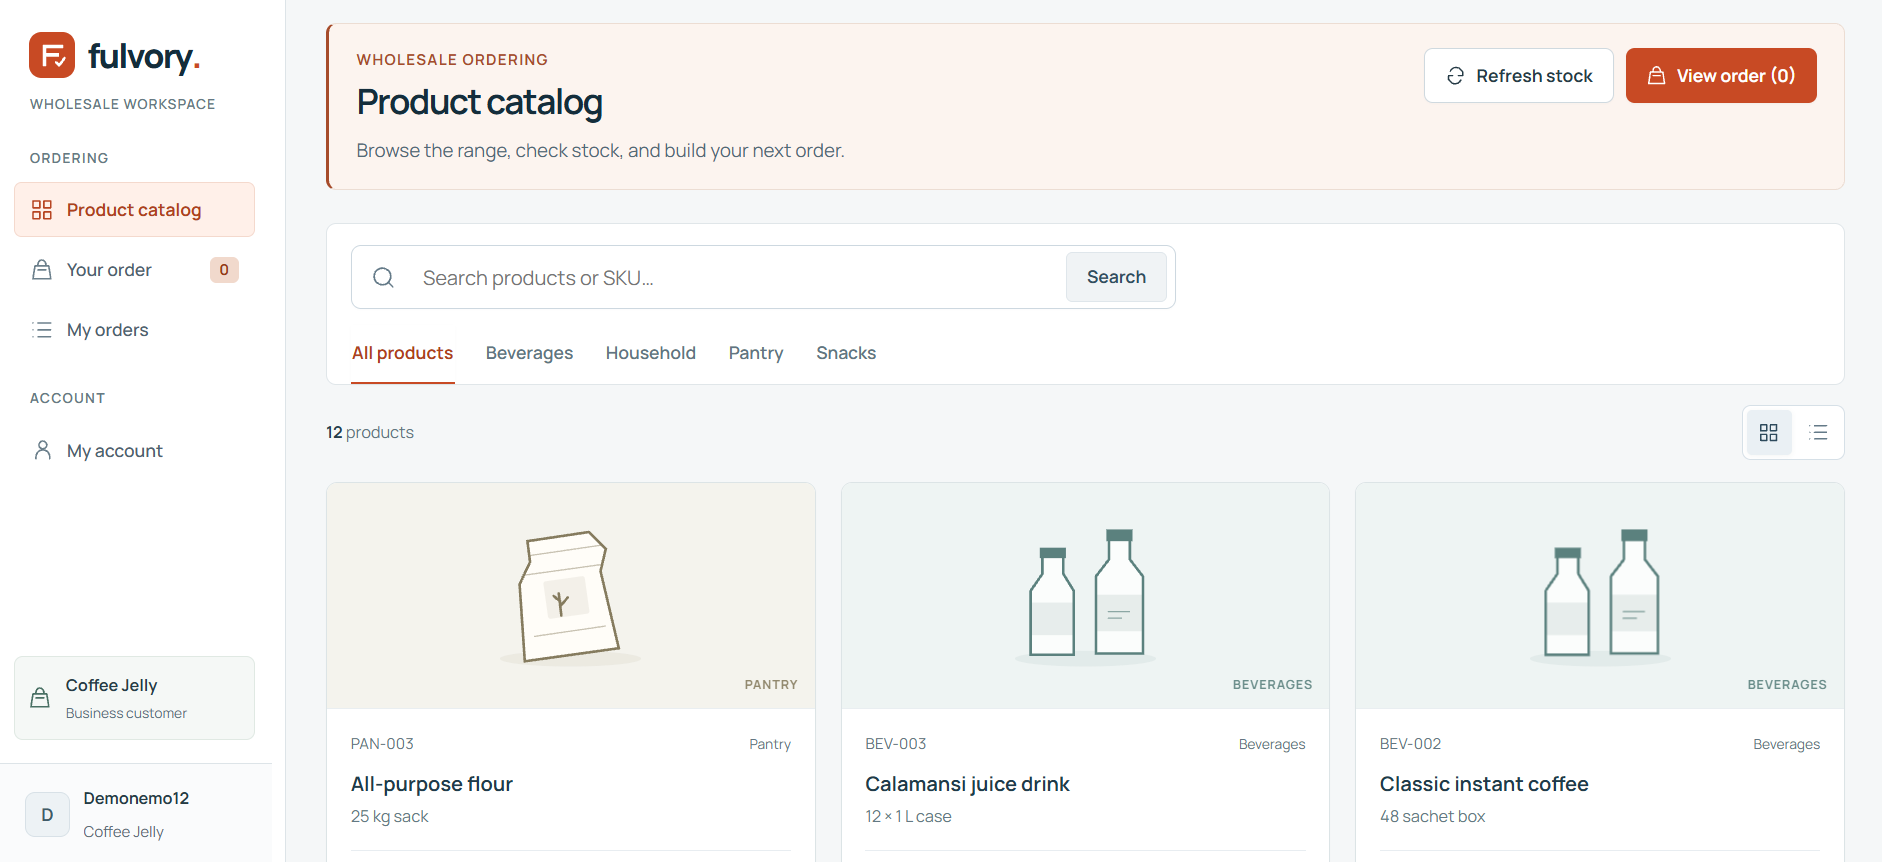
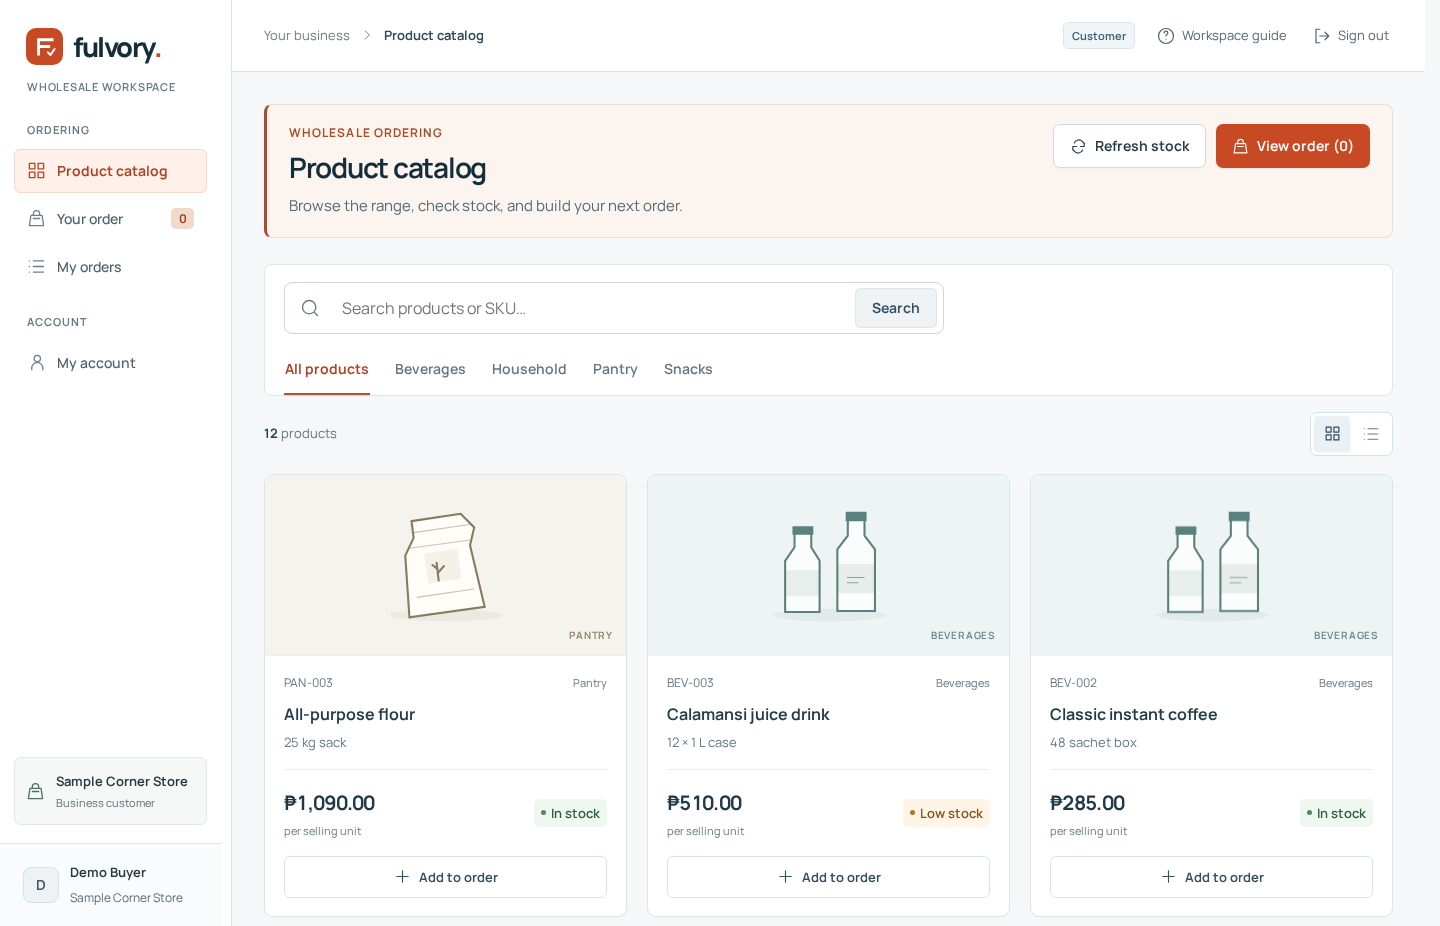
docs: refresh Fulvory showcase with four workflow screenshots

diff --git a/README.md b/README.md
@@ -1,334 +1,82 @@
 # Fulvory
 
-## B2B Order Processing & Fulfillment Platform
+**B2B ordering, inventory, and fulfillment platform**
 
-Fulvory is a full-stack application that brings wholesale ordering, stock control, supplier operations, and delivery records into one shared workspace.
+Fulvory gives a wholesale supplier one workspace for its catalog, stock, orders, and delivery records. Customer businesses place orders and track their progress. Supplier staff prepare orders and record dispatch, while administrators manage products and team access.
 
-It is designed for **one supplier, one warehouse, and multiple customer businesses**. Customers place and follow their orders, staff handle daily fulfillment, and administrators manage products and team access.
+**Java 21 · Spring Boot · Spring Security · PostgreSQL · React · Docker · GitHub Actions**
 
-**Java 21 · Spring Boot · Spring Security · React · PostgreSQL · Docker · GitHub Actions**
+[Watch the Fulvory walkthrough on YouTube](YOUTUBE_VIDEO_URL)
 
-## Demo Video
+## See Fulvory in action
 
-### [Watch the Fulvory walkthrough on YouTube](YOUTUBE_VIDEO_URL)
+The screenshots below show the application running locally with sample data.
 
-The walkthrough follows a customer order from product selection through supplier preparation, dispatch recording, and confirmation of receipt. It also introduces inventory management and supplier team permissions.
+### 1. Customer catalog
 
-## The Problem Fulvory Addresses
+Business customers browse products, check prices and availability, and select goods for their next order.
 
-A wholesaler handling orders through separate chat messages and spreadsheets can struggle to keep product prices, available stock, order progress, and delivery arrangements consistent.
+![Customer catalog showing products, prices, selling units, and stock availability](screenshots/catalog.png)
 
-Fulvory brings those records together and adds business rules for situations such as:
+### 2. Supplier order queue
 
-- Two customers trying to order the same remaining stock.
-- A customer retrying checkout after an interrupted request.
-- Catalog prices changing while an order is being reviewed.
-- Staff submitting a stock count based on an outdated screen.
-- Administrators changing a team member's access.
-- Customers needing an explanation of their order's progress.
+Supplier staff can search by order number or business name, filter by status, and see how many orders need preparation or are in transit.
 
-The application connects the customer-facing catalog to supplier operations while retaining a history of significant actions.
+![Supplier workspace showing confirmed, packing, and delivered orders](screenshots/supplier-orders.png)
 
-## User Roles and Shared Data
+### 3. Order details and delivery
 
-| Role | How the account is created | Main responsibilities |
-|---|---|---|
-| Customer | Public registration creates a customer business and its first account. | Browse products, place orders, view their business's orders, cancel eligible orders, and confirm receipt. |
-| Staff | An administrator adds an individual supplier team member. | Prepare customer orders, record delivery arrangements, maintain stock counts, and review stock history. |
-| Administrator | Initial administrator provisioning, then controlled team administration. | Staff capabilities plus product administration, team access management, and administrative monitoring. |
+A single order shows the saved items and prices, fulfillment timeline, recorded dispatch details, and status history through receipt confirmation.
 
-Administrators and staff work with **the same supplier's products, inventory, and orders**. Adding another administrator gives another person access to that shared operation.
+![Delivered order showing its items, total, fulfillment progress, and recorded delivery details](screenshots/order-details.png)
 
-Customer order access is scoped to the authenticated customer business.
+### 4. Inventory workspace
 
-## Main Application Modules
+Staff see what is physically on hand, what is reserved for open orders, and what is still available to sell. Stock history records changes and the people who made them.
 
-| Module | Functionality |
+![Inventory table showing on-hand, reserved, and available quantities](screenshots/inventory.png)
+
+## How an order moves through Fulvory
+
+1. The customer reviews a quote calculated by the backend and confirms the order. Fulvory saves the item and price details and reserves stock.
+2. Staff begin packing and record the rider or courier arrangement. They mark the order **Shipped** after handover. Fulvory deducts the quantities from both on-hand and reserved stock.
+3. The customer confirms receipt, or authorized staff records confirmation. The order moves to **Delivered**, and its history remains visible. Cancellation before shipping releases the reservation.
+
+Fulvory is designed for **one supplier and one warehouse serving multiple customer businesses**. Staff and administrators share the supplier's workspace. Customers can access orders for their own business. Manual delivery records arrangements made outside Fulvory, and a separate courier simulator demonstrates booking failures, timeouts, and retries.
+
+## Backend engineering
+
+| Challenge | How Fulvory handles it |
 |---|---|
-| Product catalog | Search and filter products, inspect selling units and prices, and see stock availability. |
-| Product administration | Create, edit, and deactivate products; manage unique SKUs and optional product photos. |
-| Cart and checkout | Build an order, request a current server-calculated quote, and submit delivery information. |
-| Customer orders | Review order items, totals, progress, and delivery details; perform permitted cancellation and receipt actions. |
-| Supplier orders | Review the shared order queue and move eligible orders through packing, shipment, and delivery. |
-| Inventory | View on-hand, reserved, and available quantities; record physical stock counts with reasons. |
-| Stock history | Review stock changes, quantities, resulting balances, actors, reasons, and related orders. |
-| Deliveries | Record an independently arranged courier or rider, business contact, dispatch reference, and customer-visible notes. |
-| Team access | Add individual staff or administrator accounts, change roles, and enable or disable access with a recorded reason. |
-| Account security | Email verification, password recovery, authenticated password changes, and supplier account setup. |
-| Operations and history | Review mail queue state, delivery mode, account security events, and administrative changes. |
+| Two buyers want the last units | PostgreSQL row locks and a transaction coordinate stock checks, order creation, and reservation. |
+| Checkout is retried after an interruption | A business-scoped idempotency key allows the same submission to return the original order without another reservation. |
+| A product price changes during checkout | The server checks the quote again before confirmation. Existing orders keep their original item and price snapshots. |
+| Staff work from an outdated screen | Version checks reject stale edits to stock counts and other business records. Eligible state transitions control when stock is released or deducted. |
+| Access changes while someone is signed in | Spring Security enforces roles and customer ownership. Password or access changes invalidate earlier sessions on subsequent authenticated requests. |
+| An account email cannot be sent immediately | A database outbox retains queued messages for delivery by a worker with bounded retries. Verification and recovery links are single-use and expire. |
 
-## Customer-to-Supplier Workflow
+The backend is a **modular monolith**. HTTP controllers delegate to services that enforce business rules and own transactions. Data access uses Spring Data JPA and targeted JDBC queries, with Flyway managing the PostgreSQL schema. React and Vite power the frontend. Docker Compose supports local services, and Mailpit captures email during development.
 
-1. **Browse and review.** A customer selects products and quantities, then reviews a quote calculated from current database prices.
-2. **Confirm the order.** The backend rechecks prices and stock, saves the order's item and price snapshots, and reserves the required quantities in one transaction.
-3. **Prepare the goods.** The supplier team opens the order and starts packing.
-4. **Record the delivery arrangement.** Staff independently arrange a courier or rider and save the relevant delivery details.
-5. **Record shipment.** After the goods are handed over, staff mark the order Shipped. Its quantities are deducted from both on-hand and reserved stock.
-6. **Confirm receipt.** The owning customer confirms arrival, or authorized staff record delivery confirmation with an explanation.
-7. **Review the history.** Order progress and related stock changes remain available for review.
+## Automated checks
 
-### Order Lifecycle
+The project recorded **140 passing backend unit and integration tests** and **7 passing courier simulator tests** during the business pilot. The v1.4.1 frontend update passed **38 frontend tests** and a production build. The GitHub Actions workflow runs the backend, frontend, and simulator checks and includes Docker builds and HTTP smoke tests.
 
-~~~mermaid
-stateDiagram-v2
-    CONFIRMED --> PACKING: Start packing
-    PACKING --> SHIPPED: Record handover
-    SHIPPED --> DELIVERED: Confirm receipt
-    CONFIRMED --> CANCELLED: Eligible cancellation
-    PACKING --> CANCELLED: Eligible cancellation
-~~~
+## Showcase repository structure
 
-Cancellation releases reserved stock. Shipped and delivered orders cannot be cancelled through this workflow.
-
-Recording a courier arrangement alone does not deduct stock or contact a delivery provider.
-
-## Backend Engineering Highlights
-
-### Atomic Stock Reservations
-
-Order confirmation locks the selected product and inventory rows in PostgreSQL, checks availability, and reserves all requested items within the order transaction.
-
-A failure rolls back the order and its stock changes together.
-
-Available stock is calculated as **on-hand minus reserved**. Database constraints protect the rule that reserved quantities cannot exceed on-hand stock.
-
-### Safe Order Retries
-
-Each order submission has a customer-business-scoped idempotency key.
-
-Repeating an equivalent submission returns the original order. Using an existing key for a different request produces a conflict.
-
-The browser retains the pending submission and its key through uncertain outcomes, allowing the customer to retry the same intent without creating another order or reserving stock again.
-
-### Server-Controlled Pricing
-
-The backend calculates quotes and final order amounts using Java BigDecimal and PostgreSQL NUMERIC values.
-
-It rechecks the quote during confirmation and asks the customer to review a changed price.
-
-Order lines retain product, SKU, selling-unit, and price snapshots. Later catalog edits do not rewrite the details of an existing order.
-
-### Version Checks for Concurrent Edits
-
-Stock counts, product changes, delivery records, and team access changes check the version or revision the user reviewed.
-
-An outdated form is rejected instead of silently replacing a newer change.
-
-A physical stock count must preserve existing reservations. Staff refresh and recount after a conflicting stock change.
-
-### Controlled Fulfillment Transitions
-
-The backend validates each status transition and applies related order, stock, and history changes in the same transaction.
-
-Repeated requests for a previously recorded state do not repeat its stock effects or append duplicate status events.
-
-Order and inventory locks use a consistent ordering to coordinate concurrent actions.
-
-### Server-Side Authorization
-
-Spring Security enforces role permissions. Customer order queries also check ownership using the authenticated business identity.
-
-Supplier administration endpoints have separate access rules from customer ordering endpoints.
-
-Public registration creates customer accounts. Privileged supplier access is managed through administrator workflows.
-
-### Actor-Attributed History
-
-Order status changes, stock movements, administration actions, delivery edits, and account security events record the relevant actor and time.
-
-Protected history tables reject ordinary update and delete operations through database triggers.
-
-This supports traceability when reviewing how an order, balance, or access setting changed.
-
-## Account Security and Email Recovery
-
-- Passwords are stored using BCrypt hashes.
-- Cookie-based sessions use CSRF protection for state-changing requests.
-- Verification and password setup/reset links are single-use, expire, and are tied to the account's access revision.
-- Token records store digests; pending email token payloads are encrypted with AES-GCM.
-- Password and access changes invalidate earlier sessions on subsequent authenticated requests.
-- Team access changes protect the last enabled administrator.
-- Persistent rate limits cover authentication and sensitive account actions.
-
-Account actions and their queued email records are committed together. A background worker sends queued messages using SMTP with bounded timeouts and retries.
-
-Mailpit provides local email capture during development. An external SMTP sender is configured separately for a hosted installation.
-
-## Frontend Experience
-
-The React interface provides customer and supplier workspaces with responsive navigation, searchable lists, status indicators, and explicit loading and error feedback.
-
-- Loaded matching queries can remain visible during background refresh.
-- Read caching is scoped to the signed-in workspace, with separate entries for filters and pages.
-- Successful or uncertain writes invalidate affected reads without automatically replaying the write.
-- Checkout still requests a fresh quote.
-- Product photos use category artwork as a fallback when no photo is available.
-- Optional JPEG/PNG uploads are validated and processed by the backend.
-
-## Architecture and Technology
-
-The backend uses a **feature-based modular monolith**.
-
-Controllers handle HTTP requests, services own business rules and transactions, and repositories access PostgreSQL. API responses use DTOs.
-
-| Area | Implementation |
+| Path | Content |
 |---|---|
-| Backend language | Java 21 |
-| Application framework | Spring Boot |
-| Authentication and authorization | Spring Security, cookie sessions, role and ownership checks |
-| Persistence | Spring Data JPA, targeted JDBC queries, PostgreSQL |
-| Schema management | Flyway migrations |
-| Frontend | React and Vite |
-| Account email | SMTP with a durable database outbox |
-| Local email testing | Mailpit |
-| Build tooling | Maven and npm |
-| Containers | Docker and Docker Compose |
-| Automated workflow | GitHub Actions |
+| `README.md` | Project overview, demo link, and technical notes |
+| `screenshots/catalog.png` | Customer catalog |
+| `screenshots/supplier-orders.png` | Supplier order queue |
+| `screenshots/order-details.png` | Delivered order and dispatch record |
+| `screenshots/inventory.png` | Inventory workspace |
 
-The prepared same-origin hosting image packages the React production build with Spring Boot.
+The application source is maintained in a separate private repository. A code review or technical walkthrough is available on request.
 
-PostgreSQL persists application records and product photos. The current session design uses one backend instance.
+## Project purpose
 
-## Testing and Continuous Integration
+Fulvory is a personal portfolio project for practicing Java backend development through a complete business workflow. The focus is on designing REST APIs, keeping data consistent across requests, enforcing access rules, and testing behavior when requests fail or are retried.
 
-The project's recorded verification evidence includes:
+## Developer
 
-| Suite | Recorded passing tests | Examples of coverage |
-|---|---:|---|
-| Backend unit and PostgreSQL integration tests | 140 | Ordering, stock behavior, account lifecycle, permissions, product images, operations, and delivery records. |
-| Frontend tests | 38 | Submission recovery, price formatting, API behavior, photo selection, and query-cache behavior. |
-| Courier simulator tests | 7 | Stable booking references, temporary failures, timeouts after acceptance, and simulator restart recovery. |
-
-These counts come from separate recorded verification stages: the backend and simulator evidence is from the business-pilot release, and the frontend evidence is from UI version 1.4.1.
-
-The GitHub Actions workflow runs:
-
-- Backend unit and integration tests.
-- Frontend tests and a production build.
-- Courier simulator tests.
-- Docker image builds.
-- Disposable application services and HTTP smoke checks.
-
-Pushes and pull requests trigger the workflow, and a manual run is available.
-
-The test suites provide repeatable checks of covered behavior. Manual workflow testing and verification in the actual hosting environment complement those checks.
-
-## Screenshots
-
-### Product Catalog
-
-Customers browse the wholesale catalog with product prices, selling units, and stock indicators.
-
-![Fulvory product catalog](screenshots/catalog.png)
-
-### Supplier Orders
-
-Administrators and staff share the order queue and review fulfillment progress.
-
-![Fulvory supplier orders workspace](screenshots/supplier-orders.png)
-
-### Inventory
-
-The inventory workspace shows stock balances and supports reasoned physical count adjustments.
-
-![Fulvory inventory management](screenshots/inventory.png)
-
-## Delivery Modes and Project Scope
-
-### Manual Delivery
-
-Manual delivery supports a supplier's own rider or a courier arranged independently.
-
-Staff save the arrangement and report shipment. The customer or authorized staff then confirm delivery.
-
-### Courier Simulation
-
-Simulation mode is a separate testing path for booking success, failure, timeout, and retry scenarios.
-
-It creates simulated references and saved attempts.
-
-### Current Scope
-
-The current release covers:
-
-- One supplier.
-- One warehouse.
-- Multiple customer businesses.
-- PHP goods totals.
-- Whole product selling units.
-- Customer, staff, and administrator accounts.
-- Staff-recorded delivery arrangements and receipt confirmation.
-
-Automatic real-courier booking, rider accounts, GPS tracking, online payments, tax invoicing, returns/refunds, and multi-supplier tenancy are outside this release.
-
-Fulvory is presented here as a personal portfolio application.
-
-Deployment configuration and operating guides are included in the private project. A live installation requires its own hosting, SMTP, persistence, and recovery checks.
-
-## About This Repository
-
----
-
-## 📁 Showcase Repository Structure
-
-This public repository contains Fulvory's project documentation, screenshots, and a link to its demonstration video.
-
-| Path | Description |
-|---|---|
-| README.md | Project overview, features, workflows, architecture, and demo link. |
-| screenshots/catalog.png | Customer product catalog. |
-| screenshots/supplier-orders.png | Supplier order management workspace. |
-| screenshots/inventory.png | Inventory management workspace. |
-| .gitignore | Excludes local IDE settings and temporary files. |
-
-### Source Code Availability
-
-The complete Fulvory application source code is maintained in a separate private GitHub repository.
-
-It includes:
-
-- Java Spring Boot backend and REST APIs.
-- React frontend built with Vite.
-- PostgreSQL schema and Flyway database migrations.
-- Authentication, authorization, and account recovery components.
-- Order processing, stock reservation, and fulfillment logic.
-- Delivery records, audit history, and courier simulation.
-- Automated backend, frontend, and simulator tests.
-- Docker configuration and GitHub Actions workflows.
-
-**Source-code review or a technical walkthrough may be arranged upon request.**
-
----
-
-## 🎯 Project Purpose
-
-Fulvory is a personal portfolio project focused on strengthening practical skills in Java backend engineering and full-stack application development.
-
-The project focuses on:
-
-1. Designing RESTful APIs using Java and Spring Boot.
-2. Organizing a modular monolith with clear controller, service, and repository responsibilities.
-3. Implementing authentication, role-based authorization, and customer business ownership checks.
-4. Managing relational data and schema migrations with PostgreSQL and Flyway.
-5. Applying transactions, database locks, and constraints to protect inventory consistency.
-6. Handling repeated order submissions safely through idempotency.
-7. Building account verification, password recovery, and durable email processing.
-8. Integrating React interfaces with Spring Boot REST services.
-9. Recording significant business actions through audit and stock histories.
-10. Practicing automated testing, debugging, container packaging, and continuous integration.
-
-The application provides a practical setting for studying how business rules, security, data consistency, and failure recovery work together.
-
----
-
-## 👨💻 Developer
-
-**Bryan — Aspiring Java Backend Developer**
-
-GitHub: [@IT-BRYYY](https://github.com/IT-BRYYY)
-
-**Primary Technologies:** Java · Spring Boot · Spring Security · PostgreSQL · React · REST APIs
-
----
-
-*Fulvory — Wholesale ordering, inventory control, and organized fulfillment.*
+**Bryan** · Aspiring Java Backend Developer · [@IT-BRYYY](https://github.com/IT-BRYYY)
